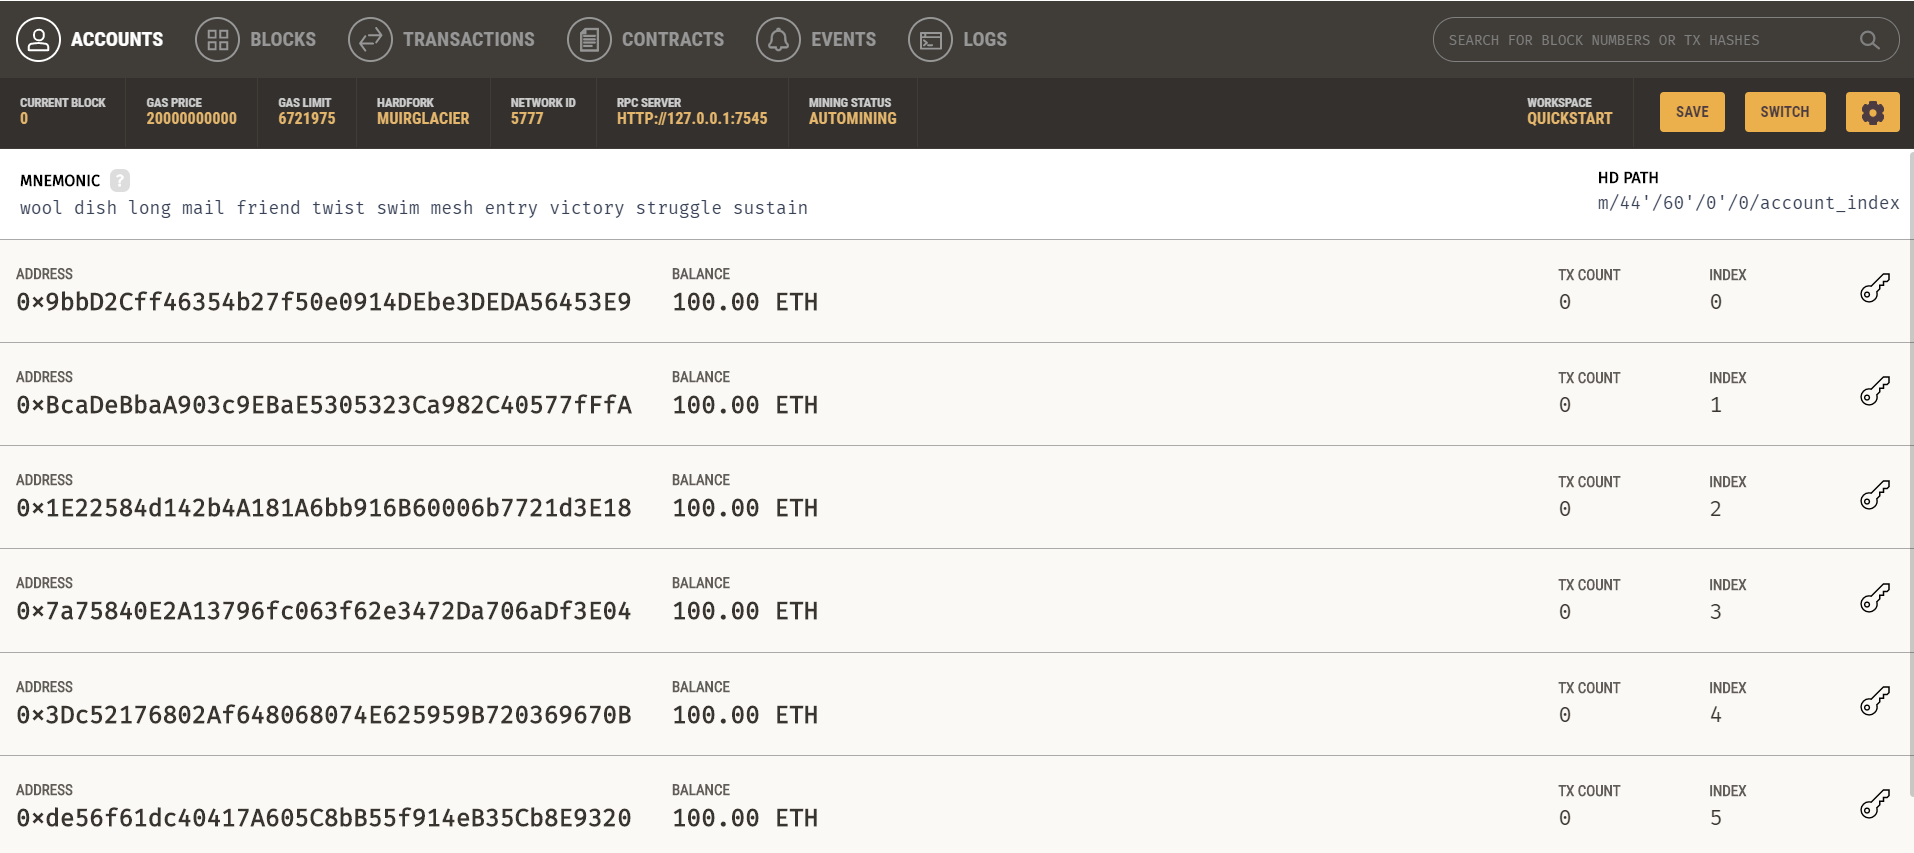
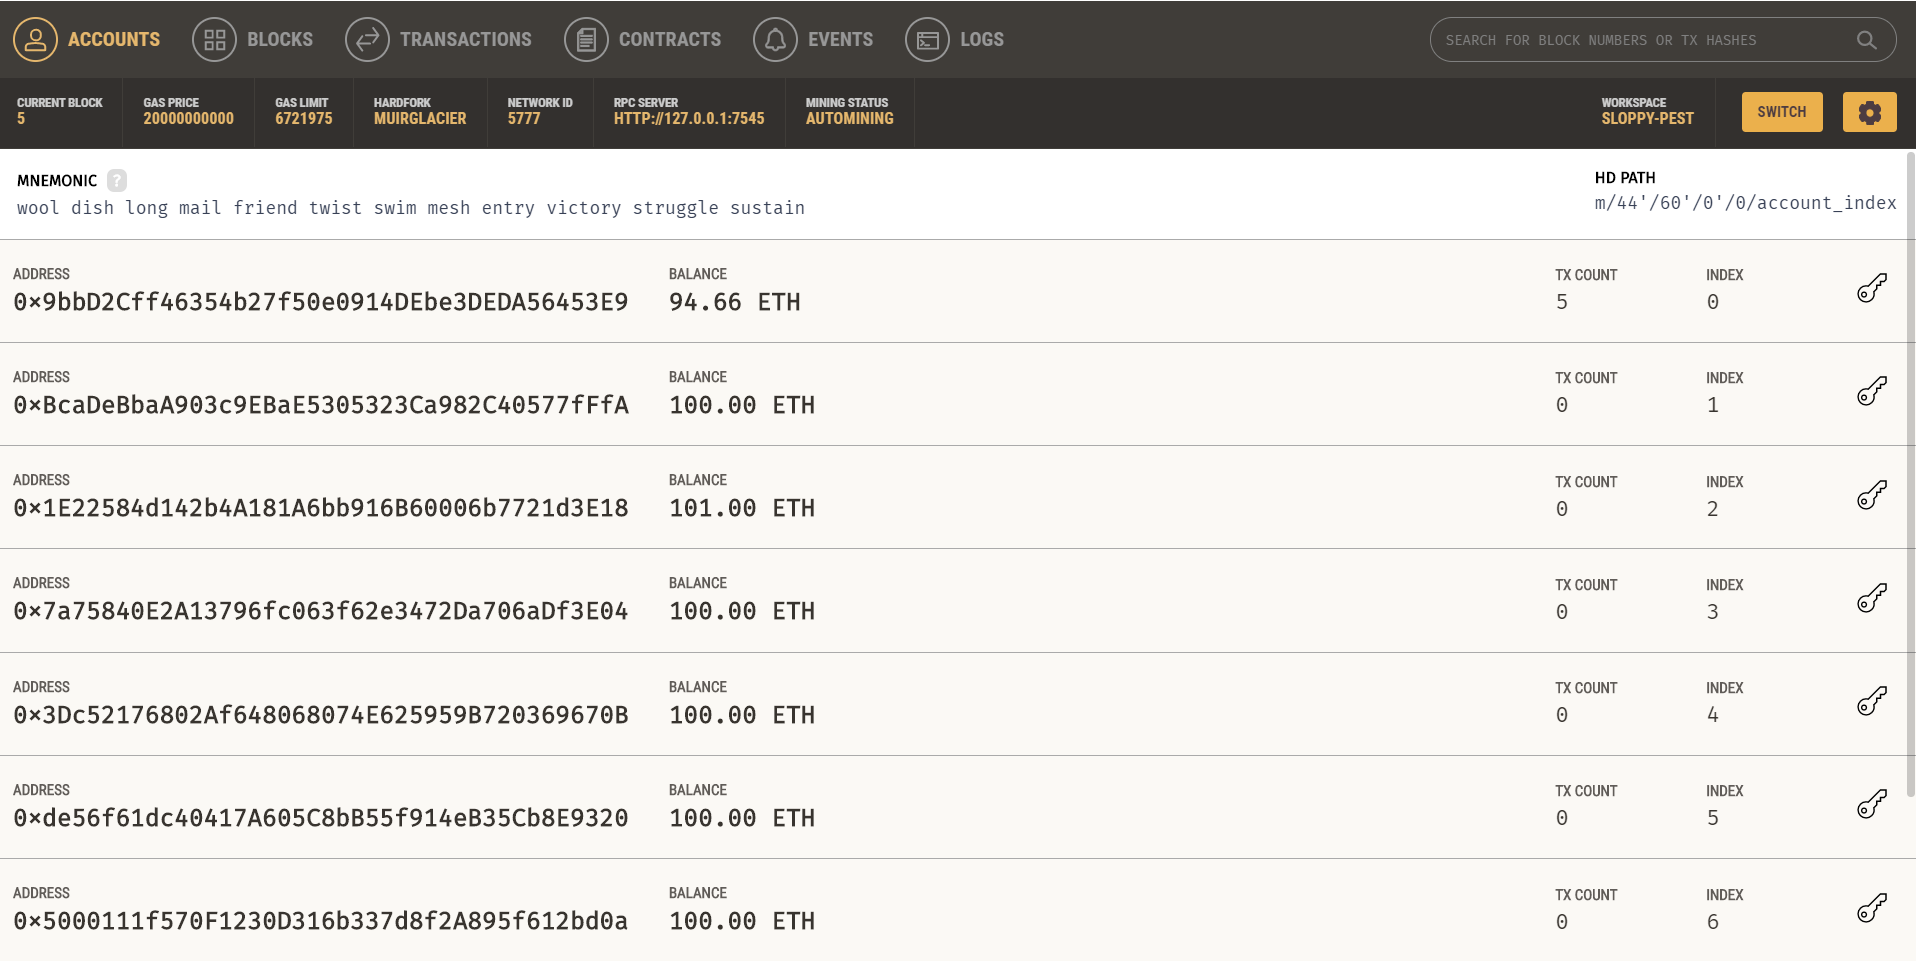
minor

diff --git a/README.md b/README.md
@@ -1,1 +1,42 @@
-# Fintech_Finder_Challenge19_UW_Bootcamp
+# Fintech Finder Application
+
+This repo contains two Python files, both of which are contained in the starter folder.
+
+The first file is called *fintech_finder.py.* It contains the code associated with the web interface of application. The code included in this file is compatible with the Streamlit library.
+
+The second file is called *crypto_wallet.py.* This file contains the Ethereum transaction functions. By using import statements, we've integrated the crypto_wallet.py Python script into the Fintech Finder interface program that is found in the fintech_finder.py file.
+
+
+### Technologies
+
+This project leverages python 3.7 with the following packages:
+*Streamlit - 1.8.1
+*Web3 - 1.2.11
+
+### Installation Guide
+ 
+     $pip install streamlit
+
+     $pip install web3
+     
+### Usage
+
+To use the application, download the repository and run the application with the following command:
+
+       streamlit run fintech_finder.py
+ 
+### Details of the transaction signed:
+![transaction](https://user-images.githubusercontent.com/94565094/166876767-6293f3ee-4c6a-4ad7-bb44-8e14bd15e6af.png)
+
+
+### Balance after transactions:
+![account](https://user-images.githubusercontent.com/94565094/166876722-fcddda4d-27cf-4acf-ae7e-eb8b06e6276b.png)
+
+
+## Contributors
+
+Project author : A.Rubkevich
+
+Contact information : anastasiyarubkevich@github.com
+
+
